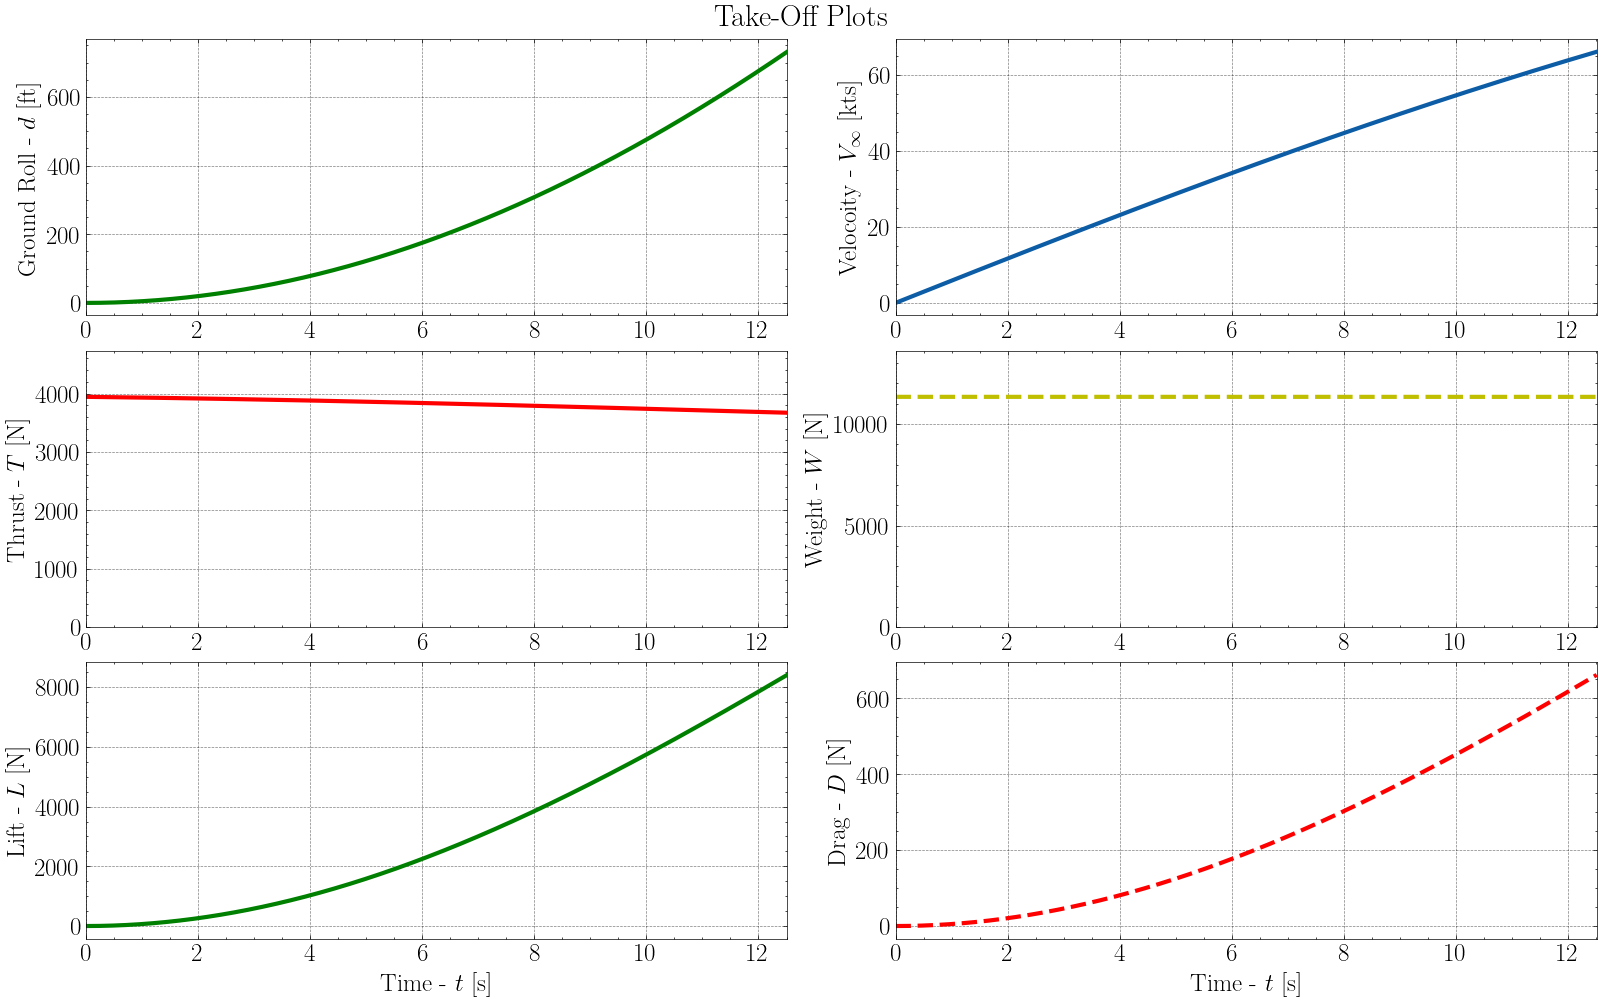
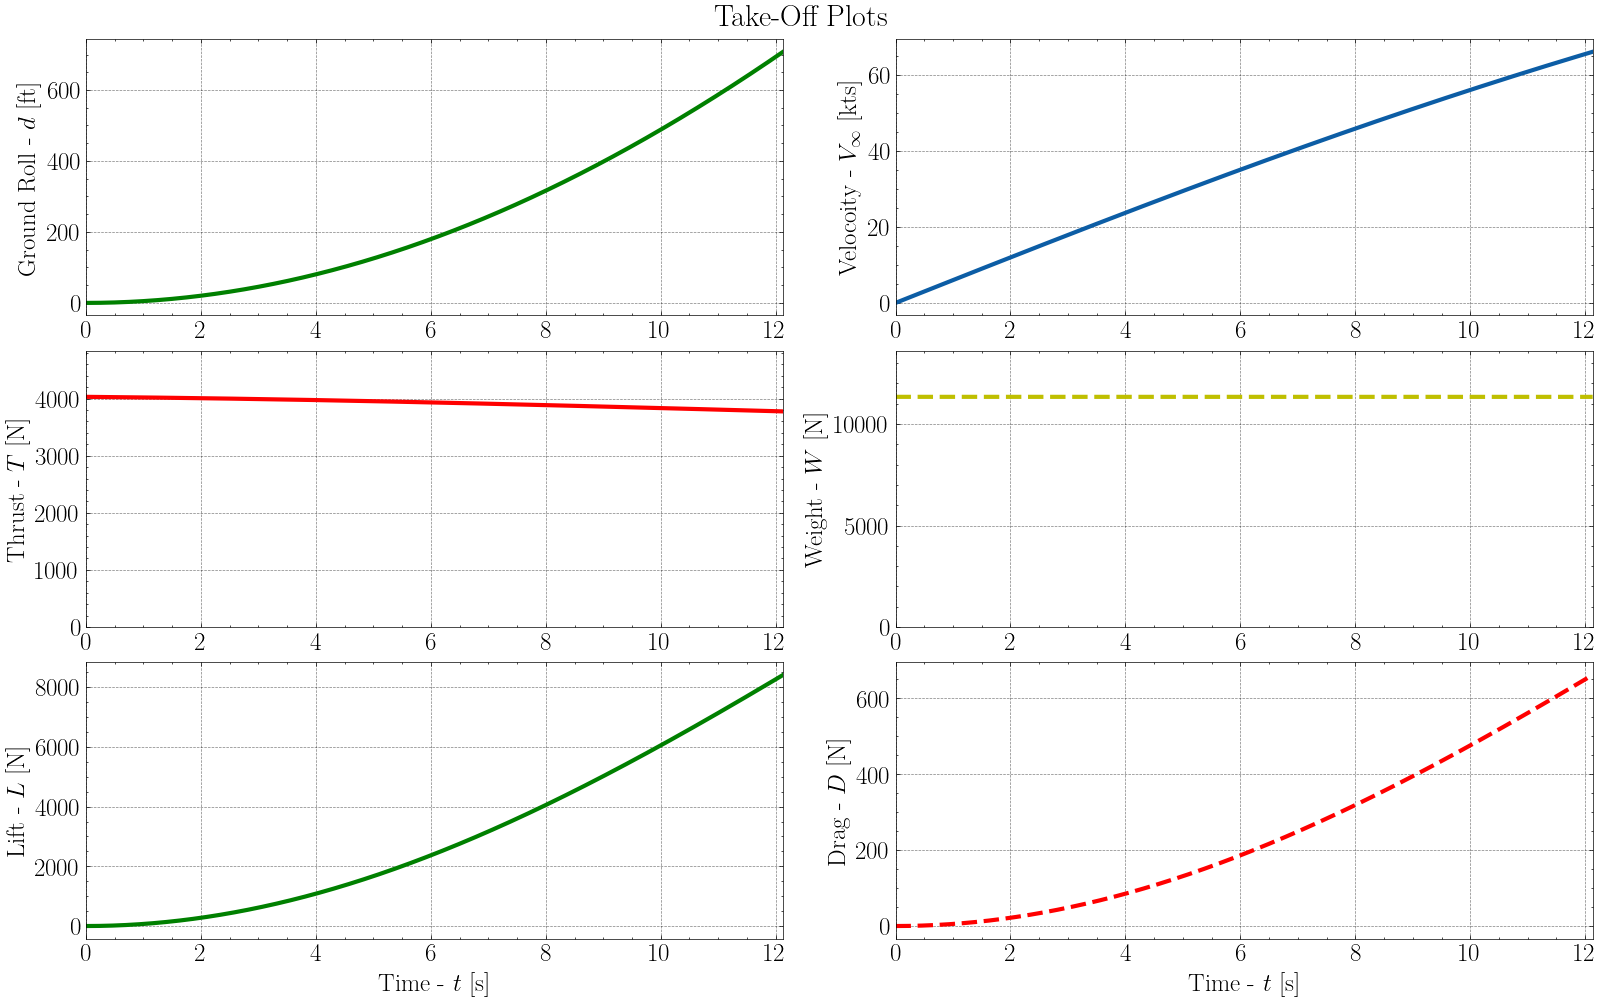
Small edits

diff --git a/Aircraft.py b/Aircraft.py
@@ -38,22 +38,26 @@ class Aircraft(Aviation):
     This class builds up all of the shared data for all components.      
     """
 
-    def __init__(self, AircraftName, Wings, HorizontalStabilizer, VerticalStabilizer, Fuselage, Engine) -> None: 
+    def __init__(self, AircraftName, AircraftDict, **Components) -> None: 
         self.AircraftName = AircraftName
-        self.Wings = Wings
-        self.HorizontalStabilizer = HorizontalStabilizer
-        self.Fuselage = Fuselage
-        self.VerticalStabilizer = VerticalStabilizer
-        self.Engine = Engine
-        self.SubComponents = [Wings, HorizontalStabilizer, Fuselage, VerticalStabilizer, Engine]
+        self.AircraftDict = AircraftDict
+        self.Components = Components
+        self.Wings = Components["Wings"]
+        self.HorizontalStabilizer = Components["HorizontalStabilizer"]
+        self.Fuselage = Components["Fuselage"]
+        self.VerticalStabilizer = Components["VerticalStabilizer"]
+        self.Engine = Components["Engine"]
+        self.ExtertnalComponents = [self.Wings, self.HorizontalStabilizer, self.Fuselage, self.VerticalStabilizer]
         self.Altitude = 0
         self.Atmosphere_attr()
-    def GetC_D(self, Components):
+    def GetTotalThrust(self):
+        Thrust = self.Engine
+    def GetTotalC_D(self):
         C_D = 0
-        for Part in Components:
+        for Part in self.ExtertnalComponents:
             Part.C_L = self.C_L
             Part.Mach = self.Mach
-            Part.rho = self.rho
+            Part.Atmosphere_attr()
             C_D += Part.EvaluateC_D()
         self.C_D = C_D
         return C_D

diff --git a/PiperArcherIII_Blueprint.py b/PiperArcherIII_Blueprint.py
@@ -9,6 +9,9 @@ ArcherVerticalStabilizer = VerticalStabilizer(AircraftName, PiperArcherIII_Dict)
 ArcherFuselage = Fuselage(AircraftName, PiperArcherIII_Dict)
 ArcherPropeller = Propeller("Sensenich", "76EM8S14-0-62", 76, 76/8)
 ArcherEngine = EngineTest(AircraftName, ArcherPropeller)
-ArcherAircraft = Aircraft(AircraftName, ArcherWings, ArcherHorizontalStabilizer, ArcherFuselage, ArcherVerticalStabilizer, ArcherEngine)
-ArcherAircraft.Dictionary_setattr(PiperArcherIII_Dict["Performance"])
-
+ArcherAircraft = Aircraft(AircraftName, PiperArcherIII_Dict, 
+                          Wings = ArcherWings, 
+                          HorizontalStabilizer = ArcherHorizontalStabilizer, 
+                          Fuselage = ArcherFuselage, 
+                          VerticalStabilizer = ArcherVerticalStabilizer, 
+                          Engine = ArcherEngine)

diff --git a/Propulsion/Engine.py b/Propulsion/Engine.py
@@ -94,7 +94,7 @@ class EngineTest(Powerplant):
         # We define the engine's max break power to be in terms of Watts so fundementals equations can be applied
         self.BreakPower = self.MaxBreakPower
         # Initialize current break power
-        self.eta = 0.9
+        self.eta = 0.  
         # Current Model for the engine to propeller efficiency is unknown
         self.Power = self.BreakPower * self.eta
         self.MaxPower = self.Power
@@ -130,8 +130,10 @@ class EngineTest(Powerplant):
         mdot = -cmax_Si
         return mdot
 class ElectricEngineTest(EngineTest):
-    pass
-ArcherProp = Propeller("Sensenich", "76EM8S14-0-62", 76, 76/8)
+    def Get_FuelConsumption(self):
+        return 0
+
+ArcherProp = Propeller("Sensenich", "76EM8S14-0-62", 76, 0)
 engine1 = EngineTest("test", ArcherProp)
 
 

diff --git a/Aerodynamic_Classes/Velocity.py b/Aerodynamic_Classes/Velocity.py
@@ -1,6 +1,10 @@
+import numpy as np
+
 class Velocity:
-    def __init__(self) -> None:
-        pass
+    def __init__(self, V_infty, NeverExceedSpeed, Heading = 0, ClimbAngle = 0) -> None:
+        self.V_infty = V_infty
+        self.NeverExceedSpeed = NeverExceedSpeed
+        self.Velocity = self.V_infty*np.array([1,0,0])
 
 
 
